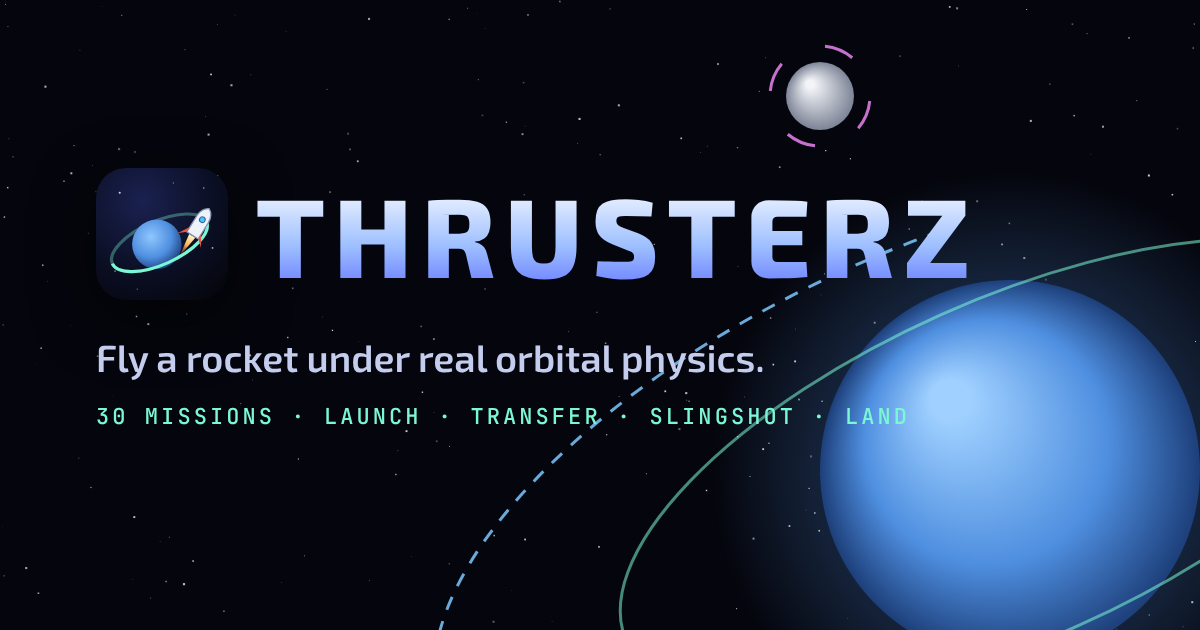
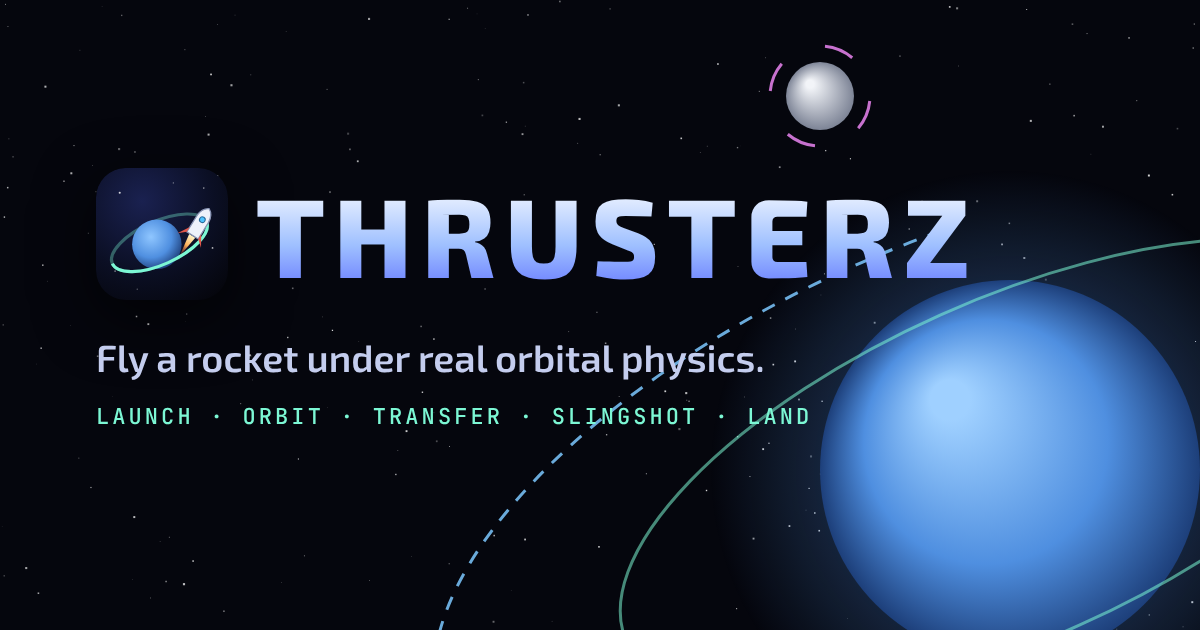
Don't hardcode the mission count in share text, card or docs
The game already counts missions from the level list; the page
description, Open Graph/Twitter text, share card and README no longer
mention a number, so adding missions needs no copy changes.

Claude-Session: https://claude.ai/code/session_01KyqUfKeFz14XcymBxKcahs

Changed region(s): [[0.0617, 0.6333, 0.4008, 0.6937], [0.4317, 0.6333, 0.6783, 0.6937], [0.7092, 0.6333, 0.74, 0.6937]]

diff --git a/index.html b/index.html
@@ -4,19 +4,19 @@
 <meta charset="utf-8">
 <meta name="viewport" content="width=device-width, initial-scale=1, maximum-scale=1, user-scalable=no, viewport-fit=cover">
 <title>Thrusterz</title>
-<meta name="description" content="Fly a rocket under real orbital physics. 30 missions: launch to orbit, transfers, rendezvous, slingshots and landings. Free in your browser.">
+<meta name="description" content="Fly a rocket under real orbital physics. Launch to orbit, transfers, rendezvous, slingshots and landings, free in your browser.">
 <meta name="theme-color" content="#05060d">
 <meta property="og:type" content="website">
 <meta property="og:site_name" content="Thrusterz">
 <meta property="og:title" content="Thrusterz">
-<meta property="og:description" content="Fly a rocket under real orbital physics. 30 missions: launch to orbit, transfers, rendezvous, slingshots and landings.">
+<meta property="og:description" content="Fly a rocket under real orbital physics. Launch to orbit, transfers, rendezvous, slingshots and landings.">
 <meta property="og:image" content="img/og-image.png">
 <meta property="og:image:width" content="1200">
 <meta property="og:image:height" content="630">
 <meta property="og:image:alt" content="Thrusterz: a rocket orbiting a blue planet">
 <meta name="twitter:card" content="summary_large_image">
 <meta name="twitter:title" content="Thrusterz">
-<meta name="twitter:description" content="Fly a rocket under real orbital physics. 30 missions in your browser.">
+<meta name="twitter:description" content="Fly a rocket under real orbital physics, free in your browser.">
 <meta name="twitter:image" content="img/og-image.png">
 <meta name="mobile-web-app-capable" content="yes">
 <meta name="apple-mobile-web-app-capable" content="yes">

diff --git a/tools/brand/og.html b/tools/brand/og.html
@@ -18,7 +18,7 @@
 <div class="text">
   <div class="logo"><img src="../../icon.svg" alt=""><div class="word">THRUSTERZ</div></div>
   <div class="tag">Fly a rocket under real orbital physics.</div>
-  <div class="meta">30 missions · launch · transfer · slingshot · land</div>
+  <div class="meta">launch · orbit · transfer · slingshot · land</div>
 </div>
 <script>
   const c = document.getElementById('c'), x = c.getContext('2d');

diff --git a/README.md b/README.md
@@ -2,7 +2,7 @@
 
 An orbital mechanics flight game. Pilot a rocket in real time — a fuel-limited
 main engine and side thrusters for rotation — under real Newtonian gravity, and
-hit your destination. Thirty missions build up from a single launch to
+hit your destination. Missions build up from a single launch to
 interplanetary transfers, gravity assists and multi-moon tours.
 
 ## Play

diff --git a/docs/ROADMAP.md b/docs/ROADMAP.md
@@ -1,6 +1,6 @@
 # Thrusterz roadmap
 
-Living notes on where the game goes next. World 1 (Flight School, 30 missions)
+Living notes on where the game goes next. World 1 (Flight School)
 is complete. New mechanics are prototyped as **Test levels** in the menu before
 they get a world of their own.
 
